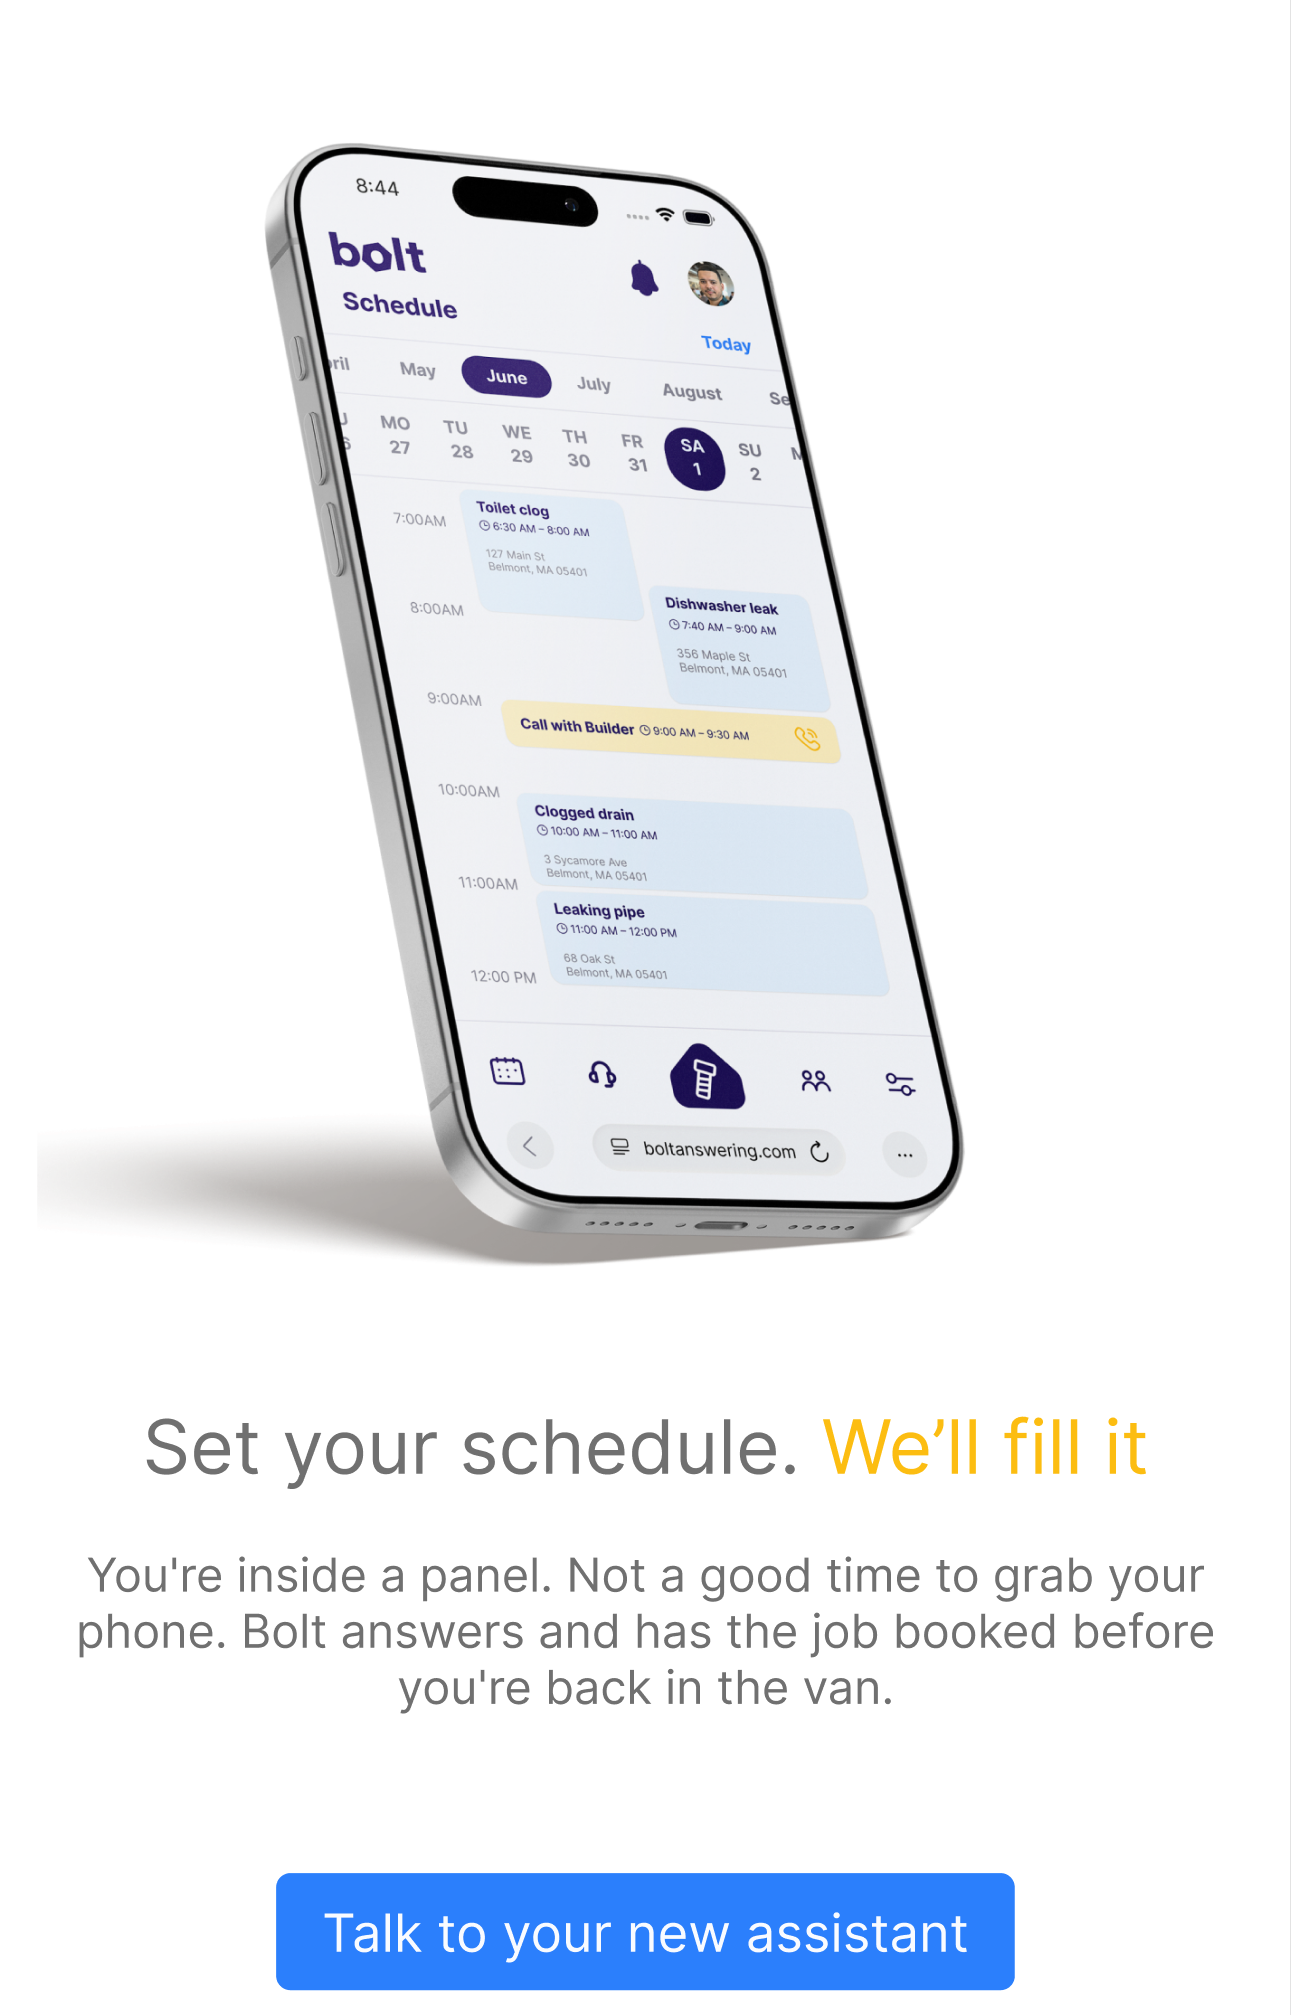
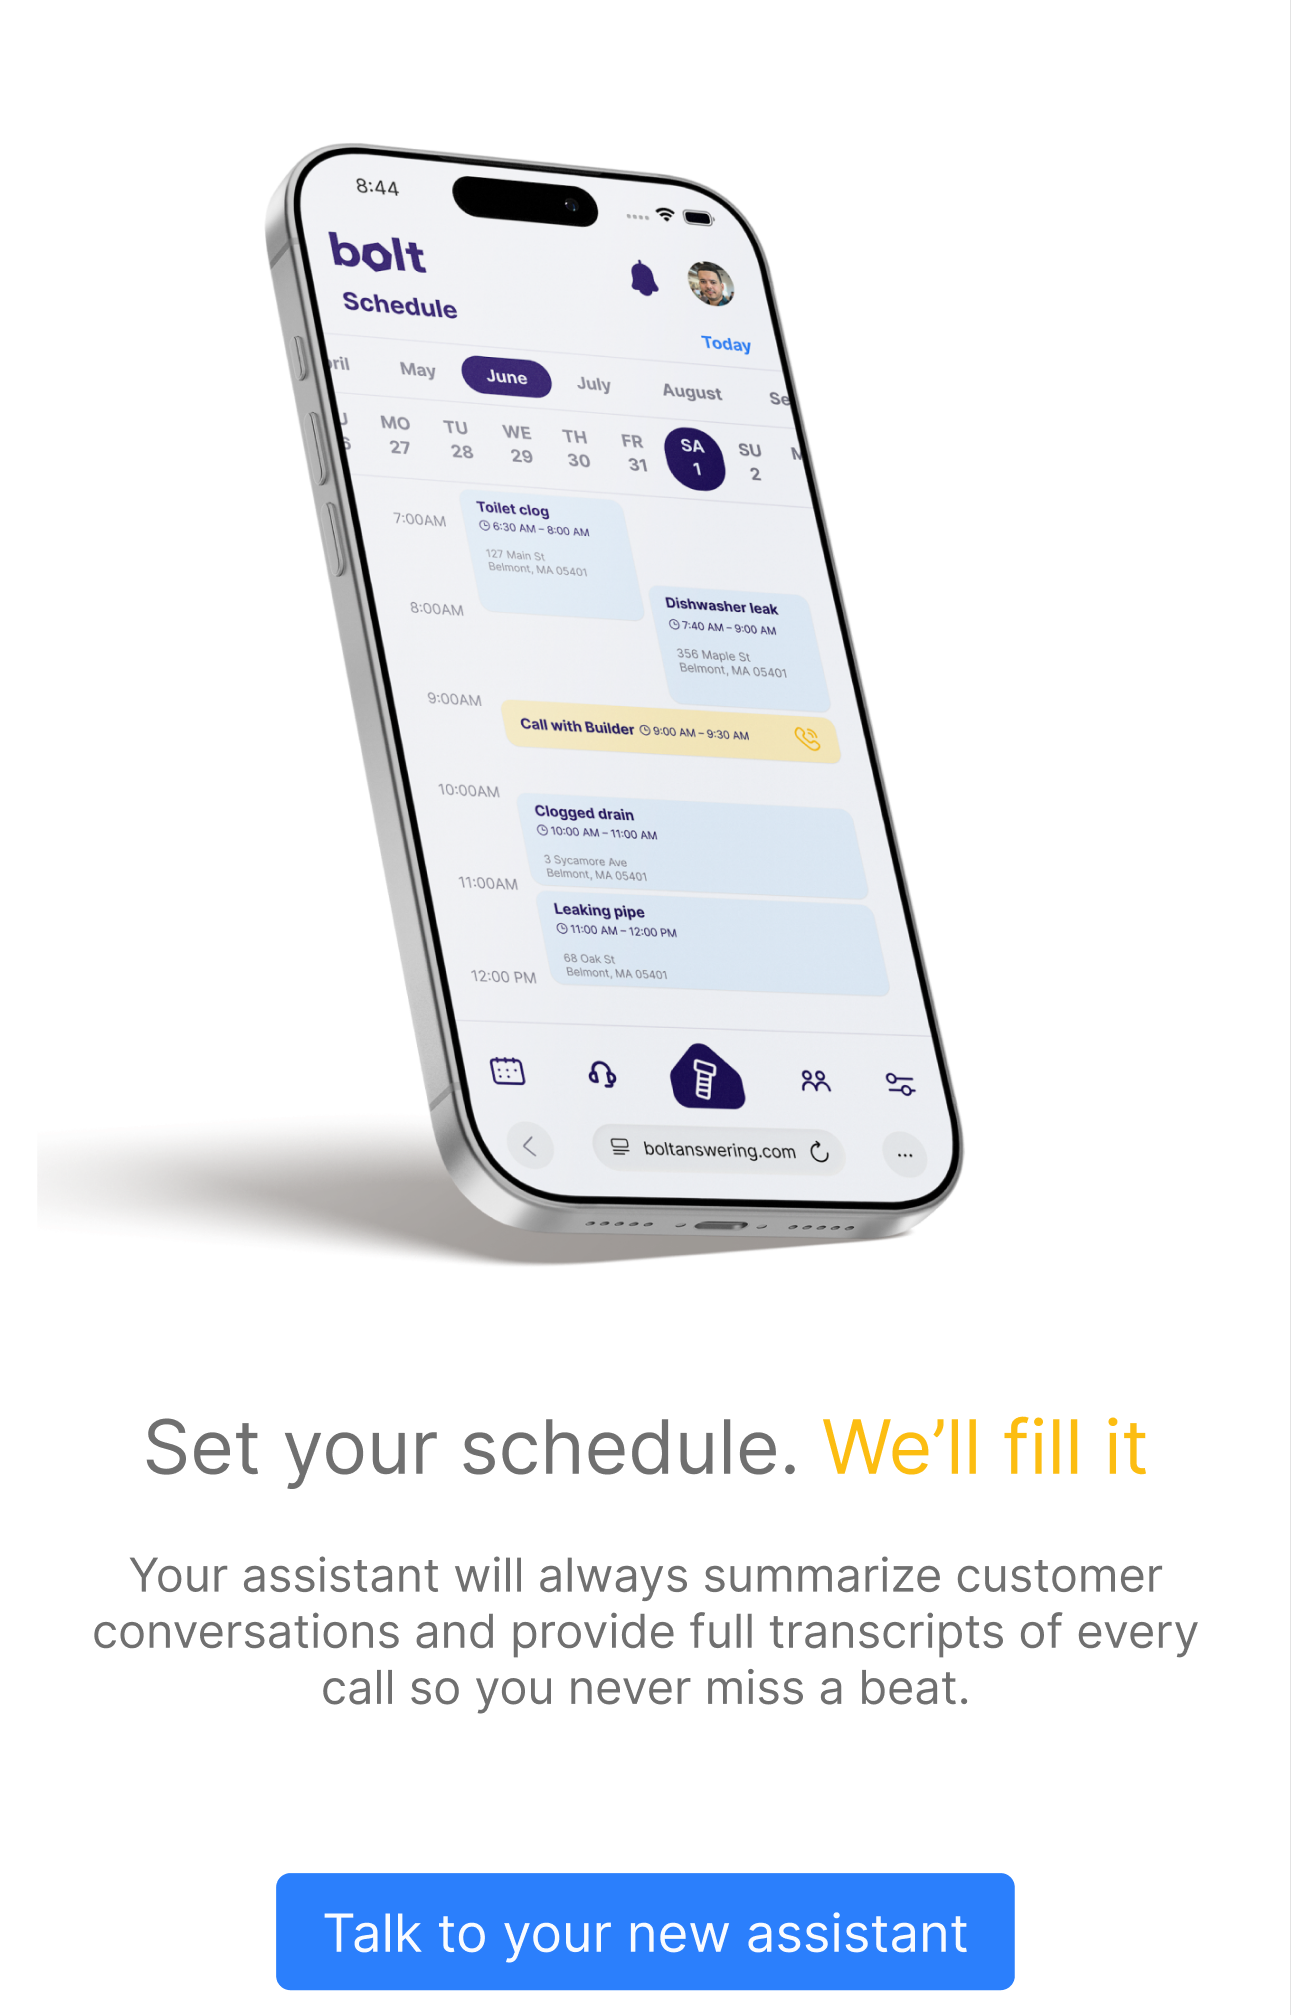
Fix plumbing feature copy (re-export); lower-fps confetti (2.5MB->0.85MB)

Changed region(s): [[0.062, 0.7692, 0.9295, 0.8615]]

diff --git a/plumbing.html b/plumbing.html
@@ -74,7 +74,7 @@
 
   <!-- ===================== FEATURE — Set your schedule ===================== -->
   <section class="tpfeat">
-    <img class="tpfeat__mobileimg" src="assets/plumb-feat-mobile.png?v=1" alt="Set your schedule. We&rsquo;ll fill it" />
+    <img class="tpfeat__mobileimg" src="assets/plumb-feat-mobile.png?v=2" alt="Set your schedule. We&rsquo;ll fill it" />
     <div class="tpfeat__inner">
       <div class="tpfeat__media">
         <div class="tpfeat__phones">

diff --git a/index.html b/index.html
@@ -61,7 +61,7 @@
   <!-- ===================== HERO ===================== -->
   <section class="hero">
     <div class="hero__bg" aria-hidden="true">
-      <img class="hero__video" src="assets/confetti.png?v=1" alt="" />
+      <img class="hero__video" src="assets/confetti.png?v=2" alt="" />
     </div>
     <div class="hero__inner">
       <div class="hero__copy">
